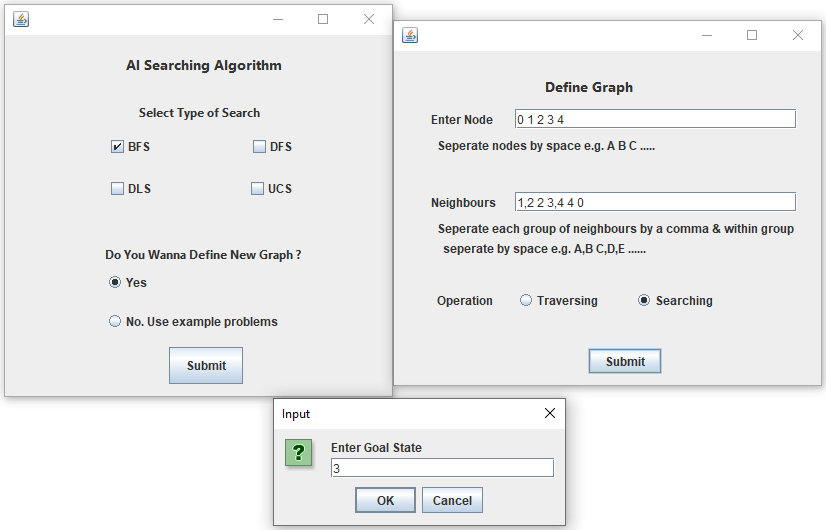
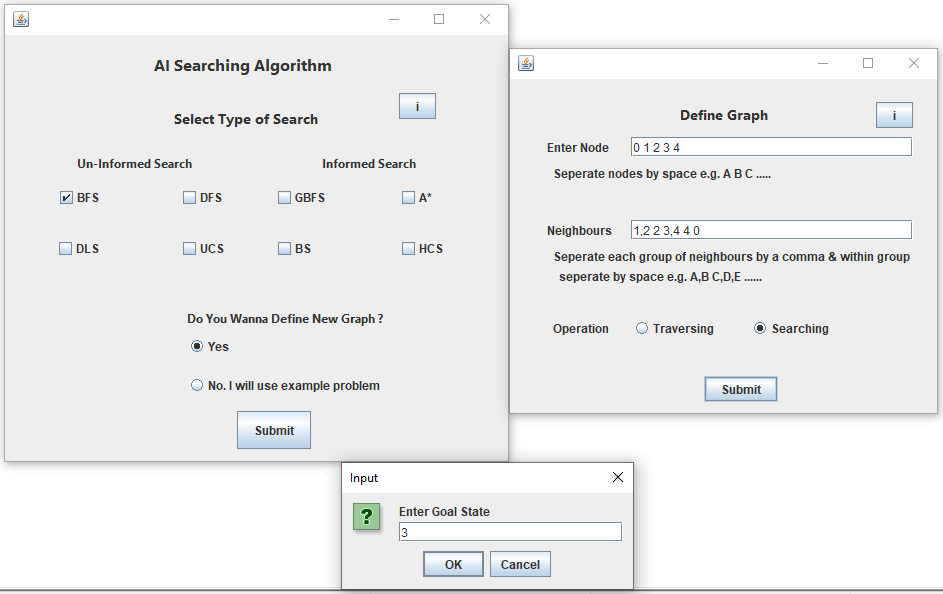
Updated screenshots for new windows.

diff --git a/src/com/project/ui/DefineGraphDLS.java b/src/com/project/ui/DefineGraphDLS.java
@@ -35,6 +35,14 @@ public class DefineGraphDLS extends javax.swing.JFrame {
         depthLimitTF.setText(UI.depthLimit);
         traversingRadioButton.setSelected(true);
         
+        operationButtonGroup = new javax.swing.ButtonGroup();
+        
+        operationButtonGroup.add(traversingRadioButton);
+        traversingRadioButton.setText("Traversing");
+
+        operationButtonGroup.add(searchinRButton);
+        searchinRButton.setText("Searching");
+        
     }
 
     /**
@@ -195,12 +203,12 @@ public class DefineGraphDLS extends javax.swing.JFrame {
                         .addContainerGap()
                         .addComponent(jPanel1, javax.swing.GroupLayout.DEFAULT_SIZE, javax.swing.GroupLayout.DEFAULT_SIZE, Short.MAX_VALUE))
                     .addGroup(layout.createSequentialGroup()
-                        .addGap(151, 151, 151)
+                    	.addGap(170, 170, 170)
                         .addComponent(subButton, javax.swing.GroupLayout.PREFERRED_SIZE, 90, javax.swing.GroupLayout.PREFERRED_SIZE)
                         .addGap(0, 0, Short.MAX_VALUE)))
                 .addContainerGap())
             .addGroup(layout.createSequentialGroup()
-                .addGap(153, 153, 153)
+            	.addGap(170, 170, 170)
                 .addComponent(jLabel1, javax.swing.GroupLayout.PREFERRED_SIZE, 90, javax.swing.GroupLayout.PREFERRED_SIZE)
                 .addPreferredGap(javax.swing.LayoutStyle.ComponentPlacement.RELATED, javax.swing.GroupLayout.DEFAULT_SIZE, Short.MAX_VALUE)
                 .addComponent(informationJBtn)

diff --git a/src/com/project/ui/DefineGraphUCS.java b/src/com/project/ui/DefineGraphUCS.java
@@ -190,10 +190,10 @@ public class DefineGraphUCS extends javax.swing.JFrame {
                     .addGroup(layout.createSequentialGroup()
                         .addGroup(layout.createParallelGroup(javax.swing.GroupLayout.Alignment.LEADING)
                             .addGroup(layout.createSequentialGroup()
-                                .addGap(153, 153, 153)
+                            	.addGap(170, 170, 170)
                                 .addComponent(jLabel1, javax.swing.GroupLayout.PREFERRED_SIZE, 90, javax.swing.GroupLayout.PREFERRED_SIZE))
                             .addGroup(layout.createSequentialGroup()
-                                .addGap(151, 151, 151)
+                                .addGap(170, 170, 170)
                                 .addComponent(subButton, javax.swing.GroupLayout.PREFERRED_SIZE, 90, javax.swing.GroupLayout.PREFERRED_SIZE)))
                         .addGap(0, 0, Short.MAX_VALUE)))
                 .addContainerGap())

diff --git a/src/com/project/ui/DefineGraphBasic.java b/src/com/project/ui/DefineGraphBasic.java
@@ -183,7 +183,7 @@ public class DefineGraphBasic extends javax.swing.JFrame {
                 .addComponent(jPanel1, javax.swing.GroupLayout.DEFAULT_SIZE, javax.swing.GroupLayout.DEFAULT_SIZE, Short.MAX_VALUE)
                 .addContainerGap())
             .addGroup(layout.createSequentialGroup()
-                .addGap(151, 151, 151)
+                .addGap(170, 170, 170)
                 .addComponent(jLabel1, javax.swing.GroupLayout.PREFERRED_SIZE, 98, javax.swing.GroupLayout.PREFERRED_SIZE)
                 .addPreferredGap(javax.swing.LayoutStyle.ComponentPlacement.RELATED, javax.swing.GroupLayout.DEFAULT_SIZE, Short.MAX_VALUE)
                 .addComponent(informationJBtn)
